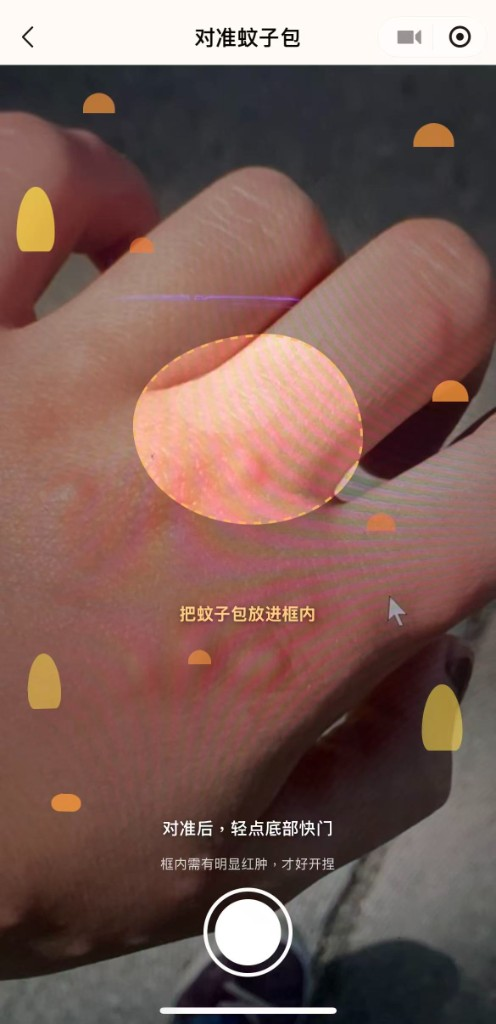
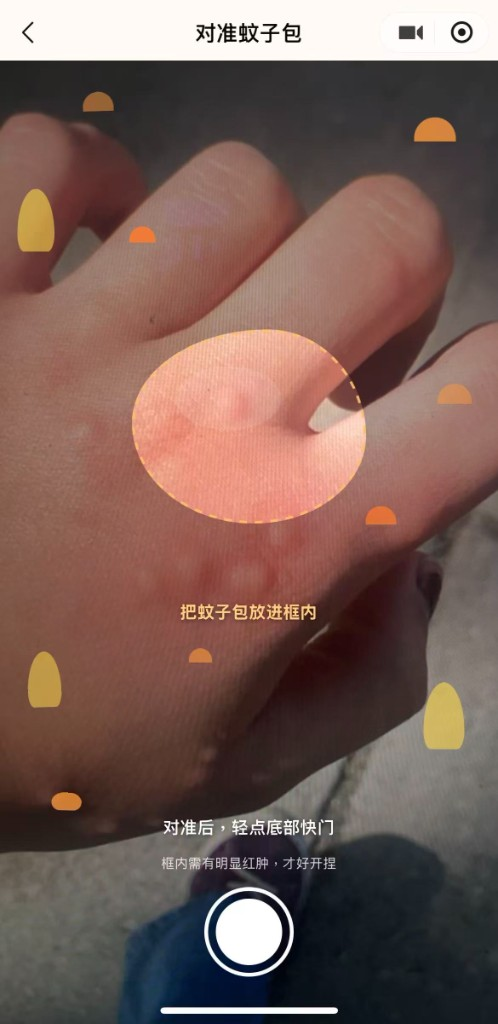
Refresh scan aim frame and add splash launch screen.
Replace the main-path scan screenshot everywhere it is referenced, and place the brand splash in the appendix gallery with standard launch-screen terminology.

diff --git a/assets/README.md b/assets/README.md
@@ -8,6 +8,7 @@
 
 | 文件 | 内容 | 公开仓用途 |
 |------|------|------------|
+| `00-splash-intro.jpg` | 开屏启动页（Splash / Launch Screen） | 品牌开屏 |
 | `01-onboard-annno.jpg` | Annno 介绍与三卡价值 | 品牌附录 |
 | `02-guide-want-scratch.jpg` | 引导：想挠 | 闭环分镜 |
 | `03-guide-shutter.jpg` | 引导：快门对准 | 闭环分镜 |
@@ -16,7 +17,7 @@
 | `06-guide-seal.jpg` | 引导：出餐/封印 | 闭环分镜 |
 | `07-promise-go-press.jpg` | 对着真蚊子包捏 | 品牌附录 |
 | `08-home-cta.jpg` | 主页「对准，开捏」 | 主路径 |
-| `09-scan-aim.jpg` | 对准真包 | 主路径 |
+| `09-scan-aim.jpg` | 对准真包（扫描瞄准页） | 主路径 |
 | `10-surface-chooser.jpg` | 立体跟包 / 轻量平面 | 主路径、降级入口 |
 | `11-pre-press-mood.jpg` | 开捏前冲动滑条 | 按压与验证 |
 | `12-ar-ready-relock.jpg` | 立体包 + 微调贴位 | 主路径、贴附决策 |
